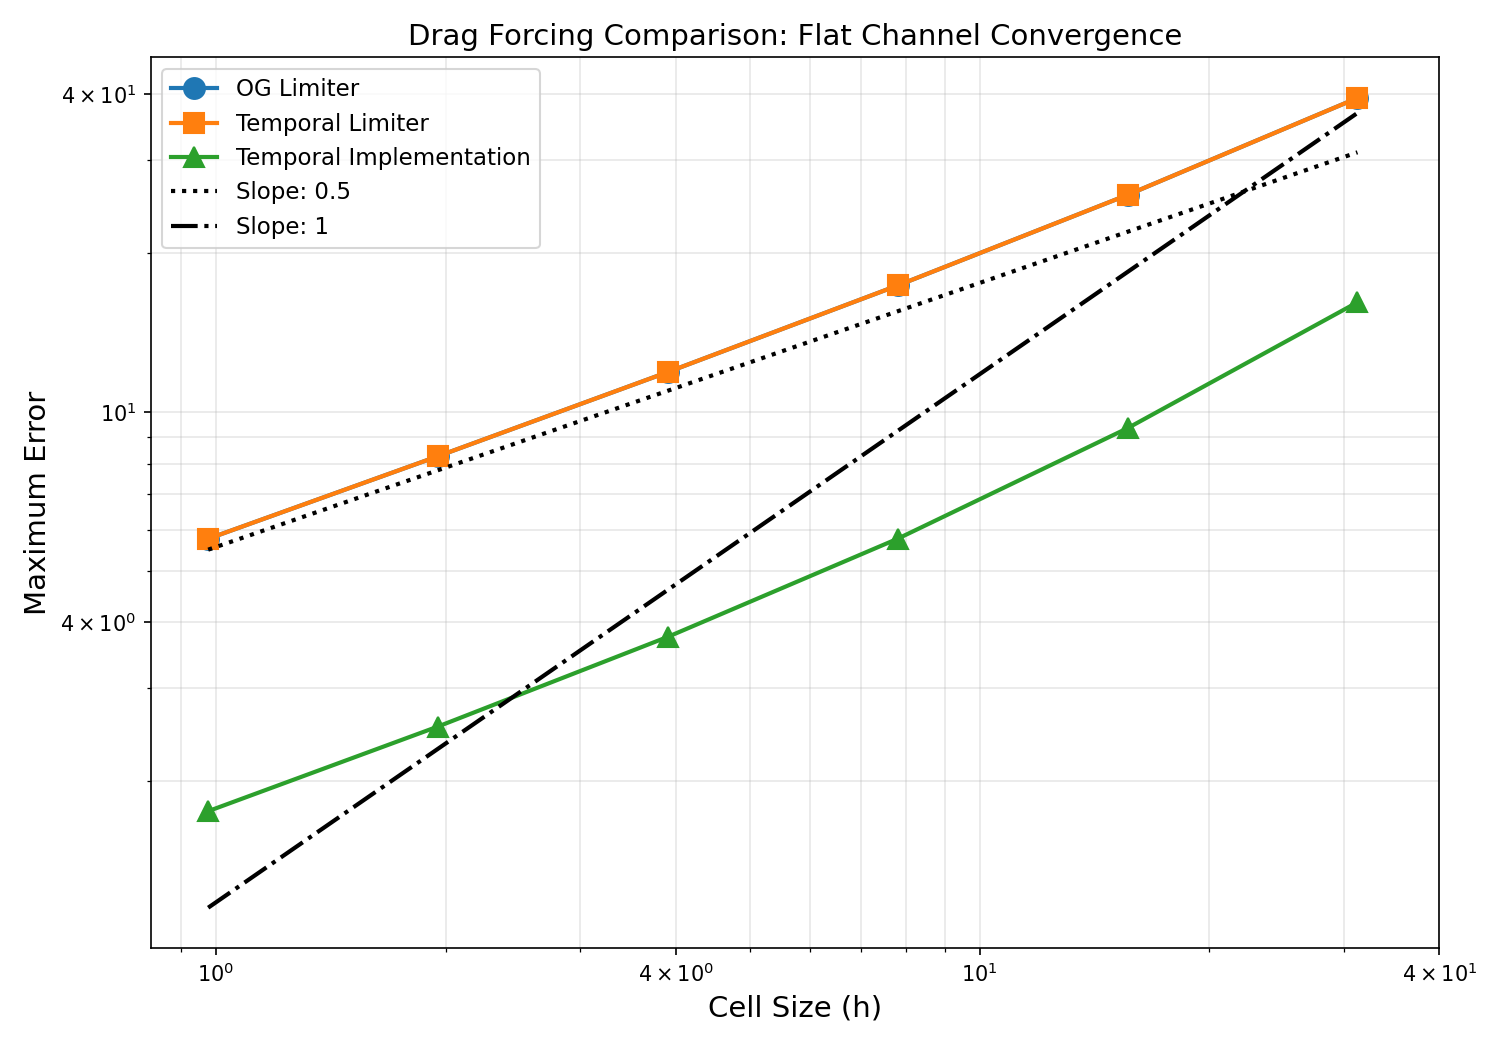
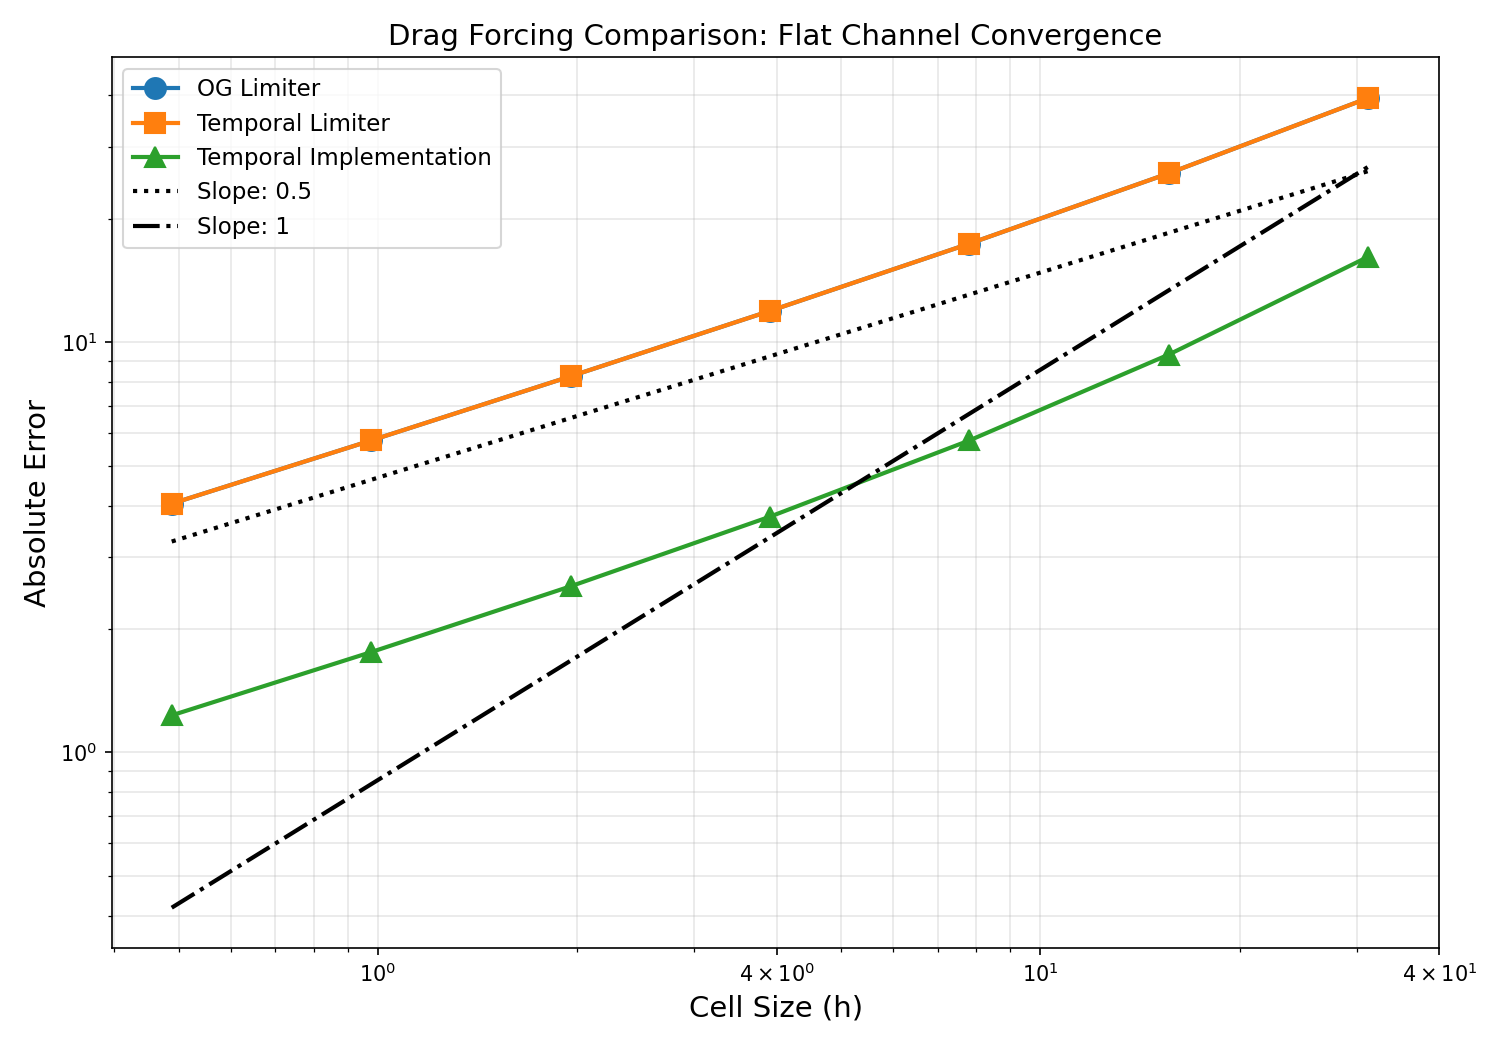
Update README, remove extra plots

diff --git a/validation/single_phase_laminar_slanted/README.md b/validation/single_phase_laminar_slanted/README.md
@@ -51,7 +51,7 @@ DragForcing.use_temporal_drag_limiter
 
 Running `python generate_cases.py` with `--og` (original limiter), `--temp` (temporal limiter, default), or `--tf1` (temporal implementation with time factor 1), adjusts both the subdirectory naming and the corresponding input file settings. For flat cases, `--align cf` or `--align cc` selects the grid alignment mode.
 
-## Pre and Post-Processing
+## Pre Processing
 Pre-processing uses `python/generate_cases.py` to generate case directories and input files based on:
 - Mode: `--flat` or `--slanted`
 - Resolution: `--nx` (grid cells in x and z)
@@ -61,7 +61,13 @@ Pre-processing uses `python/generate_cases.py` to generate case directories and 
 
 Use the "help" option, `-h`, to see all available parameters. As an example, the subdirectories and input files for the flat channel with the original drag model, aligned to cell faces, can be generated using:
 ~~~
-python python/generate_cases.py --flat --og --align cf
+python python/generate_cases.py --flat --og --align cf --nx 32,64,128,256,512,1024,2048
+~~~
+
+## Post Processing
+All post processing requires yt and matplotlib. A conda environment can be created using the provided `estuary_hfm_mmsei/validation/kynema-env.yml` file along with the following command:
+~~~ 
+conda env create -f kynema-env.yml
 ~~~
 
 Individual case post-processing is handled by `python/post_process.py`, which performs convergence analysis and generates visualization plots organized by drag variant and alignment. The script automatically parses all required parameters from the base input files:
@@ -153,7 +159,7 @@ Two alignment modes are available for flat channels:
 
 The plot below shows the $L_\infty$ norm of the error across all five grid resolutions for the three different drag configurations: the original limiter (`og`), temporal limiter (`temp`), and temporal implementation with time factor set to 1 (`tf1`). 
 
-![Flat Drag Comparison](figures/flat-drag-comparison-cf/error_convergence.png)
+![Flat Drag Comparison](figures/flat-drag-comparison-cf/error_convergence_relative.png)
 
 The `tf1` variant outperforms the other two, demonstrating that temporal implementation with unity time factor substantially improves numerical accuracy across all mesh resolutions. 
 
